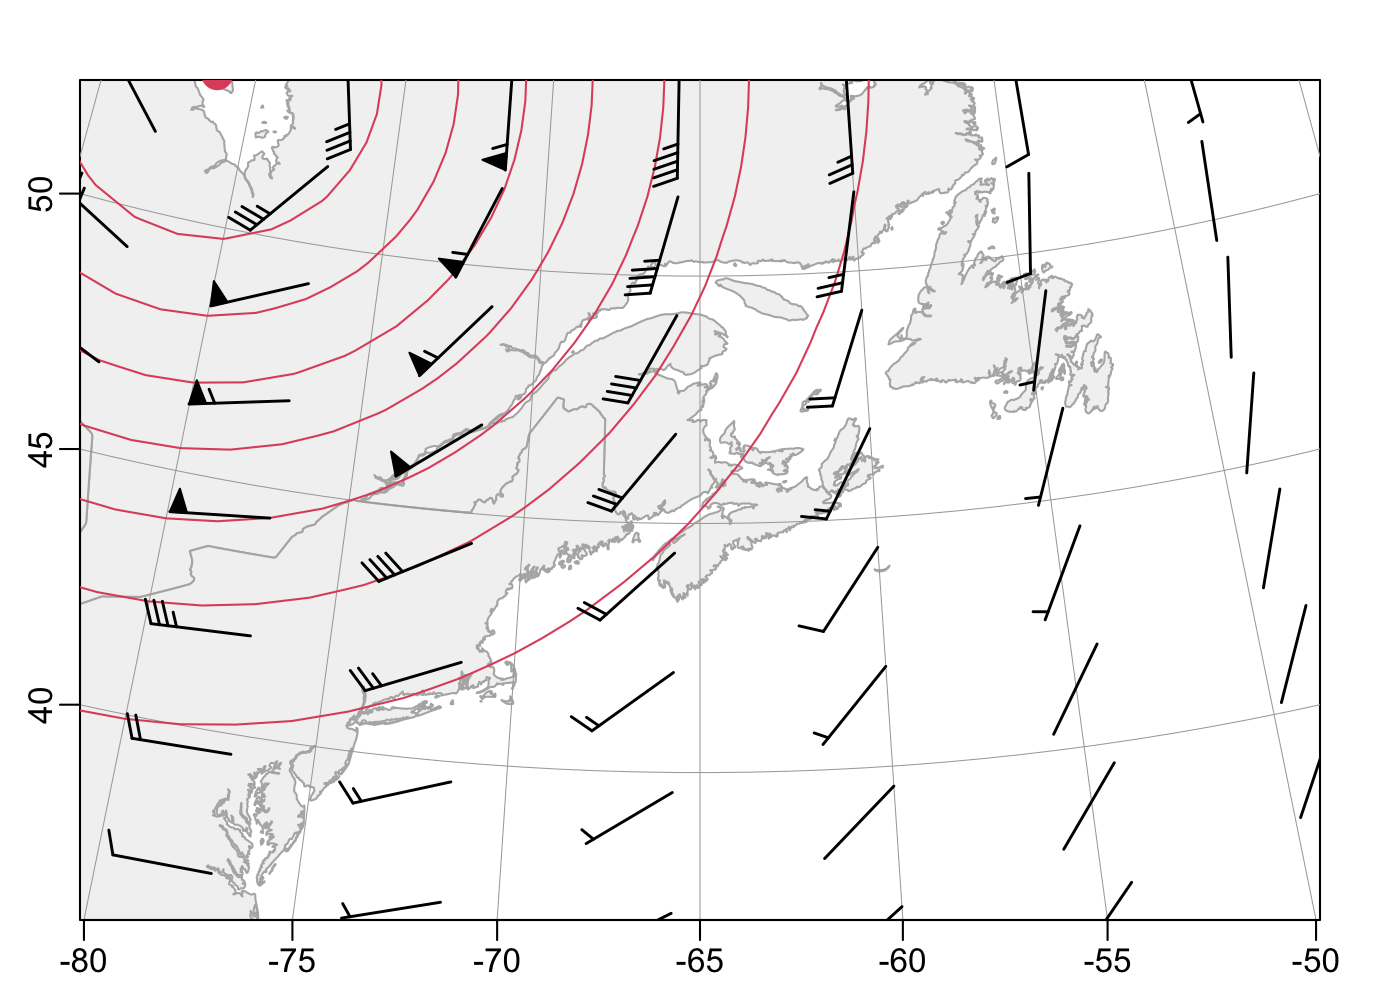
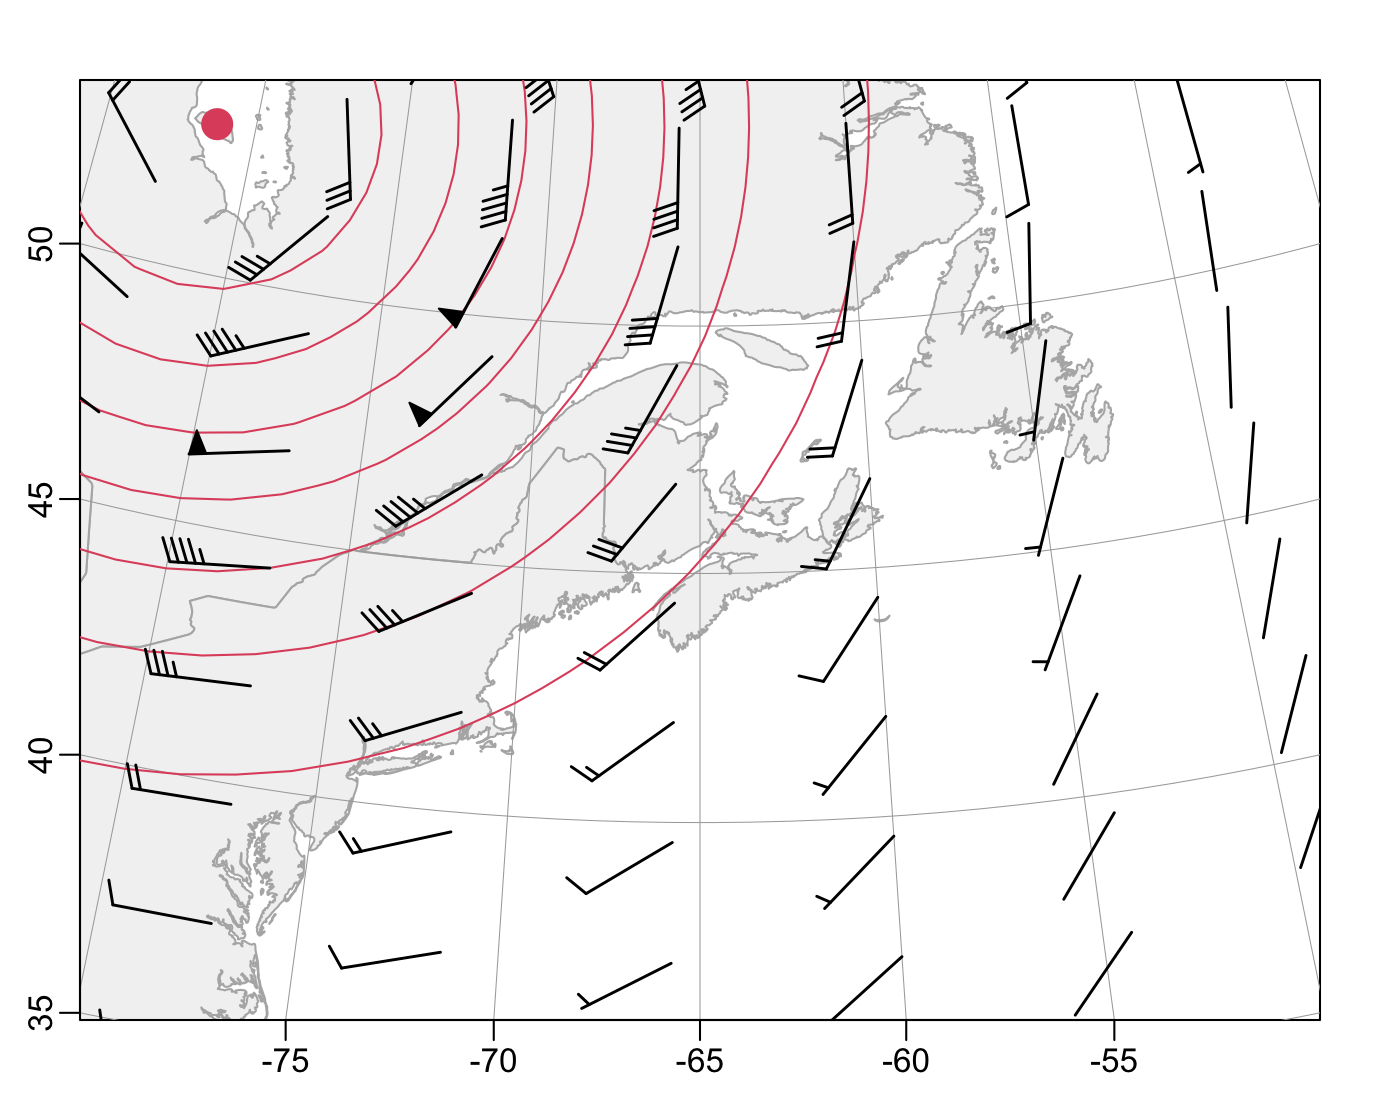
clarify

diff --git a/_posts/2024-03-22-wind-barb.md b/_posts/2024-03-22-wind-barb.md
@@ -22,11 +22,15 @@ need to see how to update your version of oce to the development version.
 
 # Gaining Access to the oce Update
 
-This may not appear in CRAN for a few months, given CRAN policies on updates to
-packages.  But, if you have a system that is set up to build R packages from
-source (which requires C, C++ and Fortran compilers), you can install the
-update by typing the following in an R session.  (Install the `remotes` package
-first, if you don't have it already.)
+This may not appear in 
+
+CRAN
+([https://cran.r-project.org/package=oce](https://cran.r-project.org/package=oce))
+for a few months, given CRAN policies on updates to packages.  But, if you have
+    a system that is set up to build R packages from source (which requires C,
+    C++ and Fortran compilers), you can install the update by typing the
+    following in an R session.  (Install the `remotes` package first, if you
+    don't have it already.)
 
 ```R
 remotes::install_github("dankelley/oce", ref = "develop")
@@ -36,43 +40,52 @@ remotes::install_github("dankelley/oce", ref = "develop")
 
 ![wind barbs](/dek_blog/docs/assets/images/2024-03-22-wind-barb.png)
 
-The diagram given above is an example. What I have done here is to imagine a
+The diagram given above is an example. I created it by imagining
 Gaussian-shaped low-pressure zone centred over the southern part of Hudson's
-Bay (visible as the red dot on the top axis of the plot).  Winds are computed
-using geostrophic formulae.
+Bay (visible as the red dot in the northwest region of the figure), and
+computing winds with the geostrophic formulae.
 
-As you can see from the code at the bottom of this post, I constructed a fairly
-dense grid of longitudes and latitudes in my simulation, so that the contours
-of pressure (red) would be smooth. But if I drew barbs for each of those
-points, the page would be a mass of black ink, so I sub-sampled the wind data
-for the barbs.  My method for doing that might be of use to some readers.
+The code is at the bottom of this post.  As you can see, I constructed a fairly
+dense grid of longitudes and latitudes to get smooth contours (red), but
+sub-sampled for the barbs.  If I had not sub-sampled, the barbs would have been
+quite crowded.  (You may also control the lengths of the wind indicators, and
+the widths of the barbs; type `?mapDrawDirectionField` to learn more.)
 
-Here's how to read this sort of diagram.  From each longitude and latitude
-point where there is an observation or model prediction, draw a line segment
-that points upwind, and that covers a fixed distance over the ground. Then
-round the speed to the nearest multiple of 5 knots. (Conversion: 1 m/s equals
-1.94384 knots.)
+# How to Read a Wind-Barb Diagram
 
-If the speed is nonzero, but rounds to 0, the segment is not adorned.  If the
-speed rounds to 5 knots, a single short barb is drawn near the end of the main
-segment. You can see one of these, extending from the southern edge of
-Newfoundland. If the speed rounds to 10 knots, draw a long barb at the end. For
-higher speeds, continue to add long or short barbs, with the long ones at the
-end and short ones nearer the origin. For example, the long and short barb for
-winds near Cape Breton indicate a speed of 15 knots. This pattern continues
-until 50 knots is reached.  For 50 knots, draw a triangle, called a pennant.
-You can see some pennants at towards the northeast of the diagram, where lines
-of constant pressure are closest together.
+If the speed at a given location is exactly zero, a dot is drawn there.
 
-In summary, just add up 5 knots for each short barb, 10 for each normal barb,
-and 50 for each pennant.
+For non-zero speeds, a line segment is drawn in the upwind direction. The
+lengths of these segments are designed to cover equal distance over the ground
+(accounting for the projection used in the map).
+
+If the speed is under 2.5 knots (i.e. if it rounds to 0), then the segment is
+all that is drawn. For higher speeds, barbs and pennants may be drawn,
+depending on the speed.
+
+If the speed rounds to 5 knots, a single short barb is drawn near the end of
+the main segment. You can see one of these, extending from the southern edge of
+Newfoundland.
+
+If the speed rounds to 10 knots, a long barb is drawn at the end.
+
+For higher speeds, long and short barbs are drawn (the short ones closer to the
+origin point). For example, the long and short barb for winds near Cape Breton
+indicate a speed of 15 knots. This pattern continues until 50 knots is reached.
+At 50 knots a pennant (triangle) is drawn.  You can see some pennants at
+towards the northeast of the diagram, where lines of constant pressure are
+closest together.
+
+This scheme makes it easy to infer the speed at any spot. Start with 0 knots.
+Add 5 knots for each short barb. Then add 10 knots for each normal barb. And
+then add 50 knots for each pennant. The sum is the speed, rounded to 5 knots.
 
 
 # Using Other Units
 
 I have seen displays use km/hour instead of knots, but retain the 5:10:50
 scheme for short barbs, normal barbs, and pennants.  Of course, it is easy to
-use `mapDirectionFieldNEW()` to accomodate this or any other 5:10:50 scheme,
+use `mapDirectionFieldNEW()` to accommodate this or any other 5:10:50 scheme,
 simply by using a multiplier on velocity.
 
 If your interest is in wind stress, consider using stress instead of velocity.
